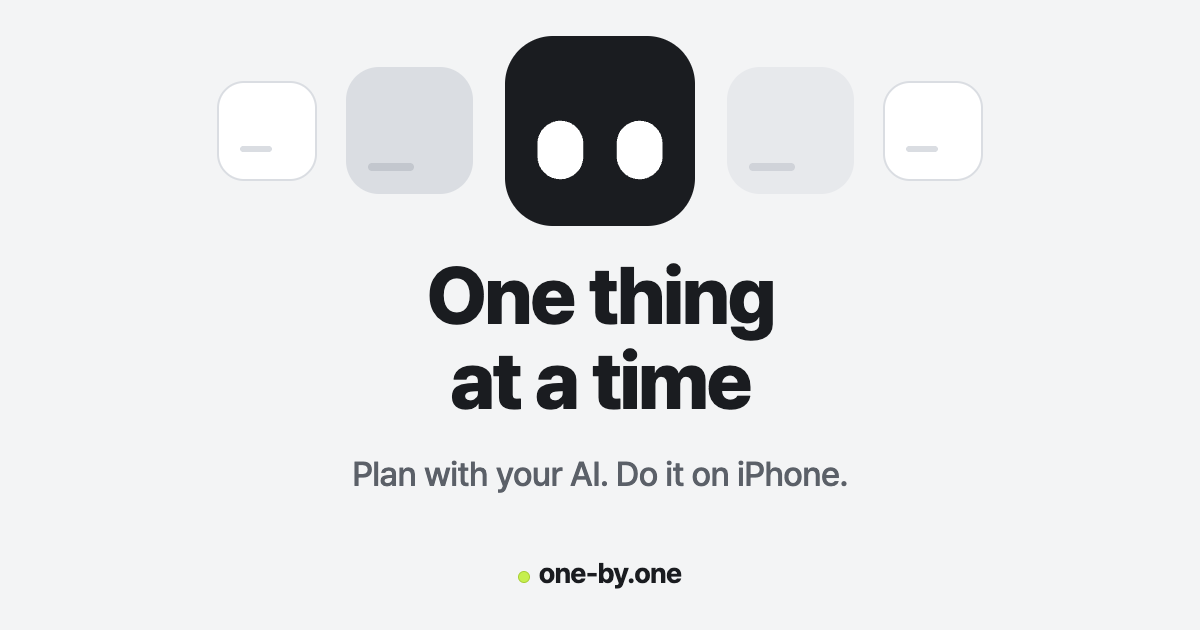
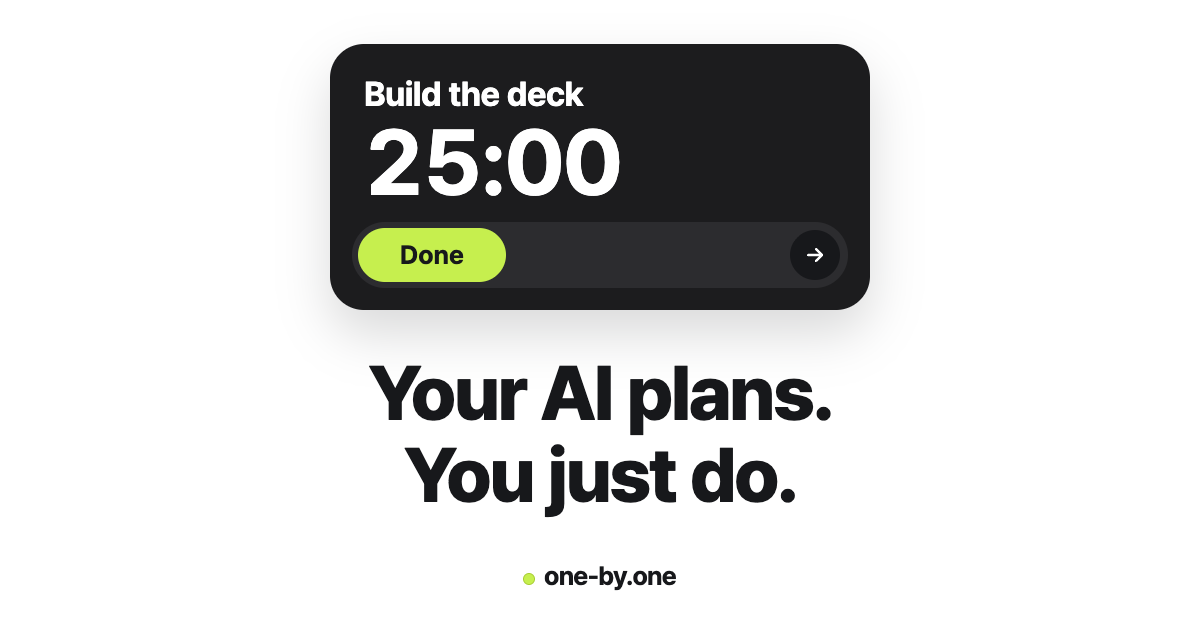
Share images match the v3 home: white ground, the Now card, the hero headline; versioned og:image URLs

diff --git a/assets/og-src/template.html b/assets/og-src/template.html
@@ -1,45 +1,38 @@
 <!doctype html>
 <!-- Source for assets/og.png (English) and assets/og-ko.png (Korean). 1200x630.
      Regenerate: node assets/og-src/render.mjs   (needs Google Chrome; Pretendard loads from jsDelivr).
-     Key content sits in the centre 630x630 square, so chat apps that crop to ~2:1 or a square keep it. -->
+     2026-11-26: matches the v3 home (white ground, the Now card from the hero phone, the hero headline). Key content stays in the middle so ~2:1 crops keep it. -->
 <html>
 <head>
 <meta charset="utf-8">
 <title>one-by.one share image</title>
 <link rel="stylesheet" href="https://cdn.jsdelivr.net/gh/orioncactus/pretendard@v1.3.9/dist/web/variable/pretendardvariable-dynamic-subset.min.css" crossorigin="anonymous">
 <style>
-  :root { --page:#F3F4F5; --ink:#1A1C20; --lime:#C6EF4E; --line:#DADDE2; --muted:#5B6068; }
+  :root { --page:#fff; --ink:#17181b; --card:#1c1c1e; --lime:#c6ef4e; --muted:#5b6068; --line:#e6e8ea; }
   * { box-sizing: border-box; margin: 0; }
   html, body { width: 1200px; height: 630px; overflow: hidden; background: var(--page); }
   body { position: relative; font-family: "Pretendard Variable", Pretendard, -apple-system, "Apple SD Gothic Neo", sans-serif; color: var(--ink); text-align: center; }
-  svg { position: absolute; inset: 0; }
-  .headline { position: absolute; left: 0; right: 0; top: 254px; font-size: 84px; line-height: 1.06; font-weight: 800; letter-spacing: -3px; word-break: keep-all; }
-  html[lang=en] .headline { font-size: 80px; letter-spacing: -3px; }
-  .sub { position: absolute; left: 0; right: 0; top: 454px; font-size: 34px; font-weight: 500; letter-spacing: -.6px; color: var(--muted); word-break: keep-all; }
-  .brand { position: absolute; left: 0; right: 0; top: 556px; font-size: 28px; font-weight: 700; letter-spacing: -.8px; color: var(--ink); }
+  .ticket { position: absolute; left: 330px; top: 44px; width: 540px; height: 266px; border-radius: 34px; background: var(--card); color: #fff; text-align: left; padding: 30px 34px; box-shadow: 0 24px 50px rgba(23,24,27,.16); }
+  .t-title { font-size: 34px; font-weight: 700; letter-spacing: -.6px; }
+  .t-clock { margin-top: 2px; font-size: 92px; font-weight: 700; line-height: 1; letter-spacing: -2px; font-variant-numeric: tabular-nums; }
+  .pill { position: absolute; left: 22px; right: 22px; bottom: 22px; height: 66px; border-radius: 33px; background: #2c2c2f; }
+  .pill b { position: absolute; left: 6px; top: 6px; bottom: 6px; width: 148px; border-radius: 27px; background: var(--lime); color: var(--ink); font-size: 26px; font-weight: 700; line-height: 54px; text-align: center; }
+  .pill i { position: absolute; right: 8px; top: 8px; width: 50px; height: 50px; border-radius: 50%; background: #17181b; }
+  .pill i svg { position: absolute; inset: 13px; }
+  .headline { position: absolute; left: 0; right: 0; top: 352px; font-size: 76px; line-height: 1.08; font-weight: 800; letter-spacing: -2.6px; word-break: keep-all; }
+  html[lang=ko] .headline { font-size: 64px; letter-spacing: -2px; line-height: 1.16; }
+  .brand { position: absolute; left: 0; right: 0; top: 560px; font-size: 26px; font-weight: 700; letter-spacing: -.8px; }
   .brand i { display: inline-block; width: 10px; height: 10px; border-radius: 50%; background: var(--lime); margin-right: 10px; vertical-align: 1px; box-shadow: 0 0 0 1px #A9CE36; }
   html[lang=ko] .en, html[lang=en] .ko { display: none; }
 </style>
 </head>
 <body>
-<svg width="1200" height="630" viewBox="0 0 1200 630" aria-hidden="true">
-  <!-- Cards, one by one: done cards fade out to the left, the current card is Pip (the app's face: dark, two white eyes set low), next cards wait on the right. -->
-  <g>
-    <rect x="218" y="82" width="98" height="98" rx="26" fill="#fff" stroke="#DADDE2" stroke-width="2"/>
-    <rect x="346" y="67" width="127" height="127" rx="33" fill="#DADDE2"/>
-    <rect x="505" y="36" width="190" height="190" rx="48" fill="#1A1C20"/>
-    <path fill="#fff" d="M537.44 143.66A22.96 22.96 0 0 1 583.36 143.66V156.34A22.96 22.96 0 0 1 537.44 156.34ZM616.64 143.66A22.96 22.96 0 0 1 662.56 143.66V156.34A22.96 22.96 0 0 1 616.64 156.34Z"/>
-    <rect x="727" y="67" width="127" height="127" rx="33" fill="#E7E9EC"/>
-    <rect x="884" y="82" width="98" height="98" rx="26" fill="#fff" stroke="#DADDE2" stroke-width="2"/>
-    <!-- quiet bars on the side cards -->
-    <rect x="368" y="163" width="46" height="8" rx="4" fill="#C3C7CE"/>
-    <rect x="749" y="163" width="46" height="8" rx="4" fill="#D0D3D9"/>
-    <rect x="240" y="146" width="32" height="6" rx="3" fill="#DADDE2"/>
-    <rect x="906" y="146" width="32" height="6" rx="3" fill="#DADDE2"/>
-  </g>
-</svg>
-<div class="headline"><span class="ko">할 일은<br>하나씩</span><span class="en">One thing<br>at a time</span></div>
-<div class="sub"><span class="ko">AI가 나눈 카드를 iPhone에서 한 장씩</span><span class="en">Plan with your AI. Do it on iPhone.</span></div>
+<div class="ticket" aria-hidden="true">
+  <p class="t-title"><span class="en">Build the deck</span><span class="ko">발표 자료 만들기</span></p>
+  <p class="t-clock">25:00</p>
+  <div class="pill"><b><span class="en">Done</span><span class="ko">완료</span></b><i><svg viewBox="0 0 24 24" fill="none" stroke="#fff" stroke-width="2.4" stroke-linecap="round" stroke-linejoin="round"><path d="M5 12h14M13 6l6 6-6 6"/></svg></i></div>
+</div>
+<div class="headline"><span class="en">Your AI plans.<br>You just do.</span><span class="ko">AI가 하루를 짜고,<br>폰은 지금 할 일 한 장만.</span></div>
 <div class="brand"><i></i>one-by.one</div>
 <script>
   const l = new URLSearchParams(location.search).get("lang") === "ko" ? "ko" : "en";

diff --git a/ko/index.html b/ko/index.html
@@ -20,16 +20,16 @@
     <meta property="og:title" content="AI 일정관리 앱, 할 일을 하나씩 | 원바이원">
     <meta property="og:description" content="챗GPT나 클로드가 하루 일정을 짜면, 아이폰에는 지금 할 일 카드 한 장만 보여요. 시간이 정해진 일은 그 시간에 알려 줘요. 투두리스트 대신, 하루를 아는 비서.">
     <meta property="og:url" content="https://one-by.one/ko/">
-    <meta property="og:image" content="https://one-by.one/assets/og-ko.png">
+    <meta property="og:image" content="https://one-by.one/assets/og-ko.png?v=ab555048d1">
     <meta property="og:image:type" content="image/png">
     <meta property="og:image:width" content="1200">
     <meta property="og:image:height" content="630">
-    <meta property="og:image:alt" content="one-by.one: 계획은 AI가, 실행은 당신이. 작은 카드가 나란히 놓이고 지금 할 카드가 가운데에 있어요.">
+    <meta property="og:image:alt" content="one-by.one: 지금 할 카드 '발표 자료 만들기 25:00'과 완료 버튼. AI가 하루를 짜고, 폰은 지금 할 일 한 장만.">
     <meta name="twitter:card" content="summary_large_image">
     <meta name="twitter:title" content="AI 일정관리 앱, 할 일을 하나씩 | 원바이원">
     <meta name="twitter:description" content="챗GPT나 클로드가 하루 일정을 짜면, 아이폰에는 지금 할 일 카드 한 장만 보여요. 시간이 정해진 일은 그 시간에 알려 줘요. 투두리스트 대신, 하루를 아는 비서.">
-    <meta name="twitter:image" content="https://one-by.one/assets/og-ko.png">
-    <meta name="twitter:image:alt" content="one-by.one: 계획은 AI가, 실행은 당신이. 작은 카드가 나란히 놓이고 지금 할 카드가 가운데에 있어요.">
+    <meta name="twitter:image" content="https://one-by.one/assets/og-ko.png?v=ab555048d1">
+    <meta name="twitter:image:alt" content="one-by.one: 지금 할 카드 '발표 자료 만들기 25:00'과 완료 버튼. AI가 하루를 짜고, 폰은 지금 할 일 한 장만.">
     <script type="application/ld+json">{
       "@context": "https://schema.org",
       "@graph": [

diff --git a/ko/connect/index.html b/ko/connect/index.html
@@ -19,16 +19,16 @@
     <meta property="og:title" content="AI 연결하기 · one-by.one">
     <meta property="og:description" content="ChatGPT, Claude, Codex, Cursor 등 MCP 에이전트를 연결해요. 프롬프트를 붙여 넣고 로그인한 뒤, 허용할 권한을 승인하세요.">
     <meta property="og:url" content="https://one-by.one/ko/connect/">
-    <meta property="og:image" content="https://one-by.one/assets/og-ko.png">
+    <meta property="og:image" content="https://one-by.one/assets/og-ko.png?v=ab555048d1">
     <meta property="og:image:type" content="image/png">
     <meta property="og:image:width" content="1200">
     <meta property="og:image:height" content="630">
-    <meta property="og:image:alt" content="one-by.one: 계획은 AI가, 실행은 당신이. 작은 카드가 나란히 놓이고 지금 할 카드가 가운데에 있어요.">
+    <meta property="og:image:alt" content="one-by.one: 지금 할 카드 '발표 자료 만들기 25:00'과 완료 버튼. AI가 하루를 짜고, 폰은 지금 할 일 한 장만.">
     <meta name="twitter:card" content="summary_large_image">
     <meta name="twitter:title" content="AI 연결하기 · one-by.one">
     <meta name="twitter:description" content="ChatGPT, Claude, Codex, Cursor 등 MCP 에이전트를 연결해요. 프롬프트를 붙여 넣고 로그인한 뒤, 허용할 권한을 승인하세요.">
-    <meta name="twitter:image" content="https://one-by.one/assets/og-ko.png">
-    <meta name="twitter:image:alt" content="one-by.one: 계획은 AI가, 실행은 당신이. 작은 카드가 나란히 놓이고 지금 할 카드가 가운데에 있어요.">
+    <meta name="twitter:image" content="https://one-by.one/assets/og-ko.png?v=ab555048d1">
+    <meta name="twitter:image:alt" content="one-by.one: 지금 할 카드 '발표 자료 만들기 25:00'과 완료 버튼. AI가 하루를 짜고, 폰은 지금 할 일 한 장만.">
     <script src="/assets/doc.js?v=14e15323cf" defer></script>
     <script src="/assets/language.js?v=a2e50e227b"></script>
     <script src="/assets/analytics.js?v=d5961adfd4" defer></script>

diff --git a/ko/blog/index.html b/ko/blog/index.html
@@ -21,16 +21,16 @@
     <meta property="og:title" content="블로그 · one-by.one">
     <meta property="og:description" content="AI와 하루를 계획하고 카드 한 장씩 실행하는 법. 클로드 MCP 연결과 커넥터 추가를 쉬운 말로 정리한 한국어 가이드예요.">
     <meta property="og:url" content="https://one-by.one/ko/blog/">
-    <meta property="og:image" content="https://one-by.one/assets/og-ko.png">
+    <meta property="og:image" content="https://one-by.one/assets/og-ko.png?v=ab555048d1">
     <meta property="og:image:type" content="image/png">
     <meta property="og:image:width" content="1200">
     <meta property="og:image:height" content="630">
-    <meta property="og:image:alt" content="one-by.one: 계획은 AI가, 실행은 당신이. 작은 카드가 나란히 놓이고 지금 할 카드가 가운데에 있어요.">
+    <meta property="og:image:alt" content="one-by.one: 지금 할 카드 '발표 자료 만들기 25:00'과 완료 버튼. AI가 하루를 짜고, 폰은 지금 할 일 한 장만.">
     <meta name="twitter:card" content="summary_large_image">
     <meta name="twitter:title" content="블로그 · one-by.one">
     <meta name="twitter:description" content="AI와 하루를 계획하고 카드 한 장씩 실행하는 법. 클로드 MCP 연결과 커넥터 추가를 쉬운 말로 정리한 한국어 가이드예요.">
-    <meta name="twitter:image" content="https://one-by.one/assets/og-ko.png">
-    <meta name="twitter:image:alt" content="one-by.one: 계획은 AI가, 실행은 당신이. 작은 카드가 나란히 놓이고 지금 할 카드가 가운데에 있어요.">
+    <meta name="twitter:image" content="https://one-by.one/assets/og-ko.png?v=ab555048d1">
+    <meta name="twitter:image:alt" content="one-by.one: 지금 할 카드 '발표 자료 만들기 25:00'과 완료 버튼. AI가 하루를 짜고, 폰은 지금 할 일 한 장만.">
     <script type="application/ld+json">
 {
   "@context": "https://schema.org",

diff --git a/connect/index.html b/connect/index.html
@@ -17,16 +17,16 @@
     <meta property="og:title" content="Connect your AI · one-by.one">
     <meta property="og:description" content="Use ChatGPT, Claude, Codex, Cursor or any MCP agent with one-by.one. Paste one prompt, sign in, and approve what it can do.">
     <meta property="og:url" content="https://one-by.one/connect/">
-    <meta property="og:image" content="https://one-by.one/assets/og.png">
+    <meta property="og:image" content="https://one-by.one/assets/og.png?v=62cf03ff7d">
     <meta property="og:image:type" content="image/png">
     <meta property="og:image:width" content="1200">
     <meta property="og:image:height" content="630">
-    <meta property="og:image:alt" content="one-by.one: one thing at a time. A row of small cards with the current one in front.">
+    <meta property="og:image:alt" content="one-by.one: the card to do now, Build the deck, 25:00, with a Done button. Your AI plans. You just do.">
     <meta name="twitter:card" content="summary_large_image">
     <meta name="twitter:title" content="Connect your AI · one-by.one">
     <meta name="twitter:description" content="Use ChatGPT, Claude, Codex, Cursor or any MCP agent with one-by.one. Paste one prompt, sign in, and approve what it can do.">
-    <meta name="twitter:image" content="https://one-by.one/assets/og.png">
-    <meta name="twitter:image:alt" content="one-by.one: one thing at a time. A row of small cards with the current one in front.">
+    <meta name="twitter:image" content="https://one-by.one/assets/og.png?v=62cf03ff7d">
+    <meta name="twitter:image:alt" content="one-by.one: the card to do now, Build the deck, 25:00, with a Done button. Your AI plans. You just do.">
     <script src="/assets/doc.js?v=14e15323cf" defer></script>
     <script src="/assets/language.js?v=a2e50e227b"></script>
     <script src="/assets/analytics.js?v=d5961adfd4" defer></script>

diff --git a/index.html b/index.html
@@ -20,16 +20,16 @@
     <meta property="og:title" content="AI Daily Planner App for iPhone | one-by.one">
     <meta property="og:description" content="AI daily planner for iPhone. ChatGPT or Claude plans your day, and your phone shows the one card to do now, with a timer when it has a length and an alert when it has a time.">
     <meta property="og:url" content="https://one-by.one/">
-    <meta property="og:image" content="https://one-by.one/assets/og.png">
+    <meta property="og:image" content="https://one-by.one/assets/og.png?v=62cf03ff7d">
     <meta property="og:image:type" content="image/png">
     <meta property="og:image:width" content="1200">
     <meta property="og:image:height" content="630">
-    <meta property="og:image:alt" content="one-by.one: a row of small cards with the one to do now in front.">
+    <meta property="og:image:alt" content="one-by.one: the card to do now, Build the deck, 25:00, with a Done button. Your AI plans. You just do.">
     <meta name="twitter:card" content="summary_large_image">
     <meta name="twitter:title" content="AI Daily Planner App for iPhone | one-by.one">
     <meta name="twitter:description" content="AI daily planner for iPhone. ChatGPT or Claude plans your day, and your phone shows the one card to do now, with a timer when it has a length and an alert when it has a time.">
-    <meta name="twitter:image" content="https://one-by.one/assets/og.png">
-    <meta name="twitter:image:alt" content="one-by.one: a row of small cards with the one to do now in front.">
+    <meta name="twitter:image" content="https://one-by.one/assets/og.png?v=62cf03ff7d">
+    <meta name="twitter:image:alt" content="one-by.one: the card to do now, Build the deck, 25:00, with a Done button. Your AI plans. You just do.">
     <script type="application/ld+json">{
       "@context": "https://schema.org",
       "@graph": [

diff --git a/support/index.html b/support/index.html
@@ -18,16 +18,16 @@
     <meta property="og:title" content="Support &amp; AI Help | one-by.one">
     <meta property="og:description" content="Get help with one-by.one sign-in, ChatGPT and Claude MCP connections, subscriptions, calendar sharing and deletion.">
     <meta property="og:url" content="https://one-by.one/support/">
-    <meta property="og:image" content="https://one-by.one/assets/og.png">
+    <meta property="og:image" content="https://one-by.one/assets/og.png?v=62cf03ff7d">
     <meta property="og:image:type" content="image/png">
     <meta property="og:image:width" content="1200">
     <meta property="og:image:height" content="630">
-    <meta property="og:image:alt" content="one-by.one: one thing at a time. A row of small cards with the current one in front.">
+    <meta property="og:image:alt" content="one-by.one: the card to do now, Build the deck, 25:00, with a Done button. Your AI plans. You just do.">
     <meta name="twitter:card" content="summary_large_image">
     <meta name="twitter:title" content="Support &amp; AI Help | one-by.one">
     <meta name="twitter:description" content="Get help with one-by.one sign-in, ChatGPT and Claude MCP connections, subscriptions, calendar sharing and deletion.">
-    <meta name="twitter:image" content="https://one-by.one/assets/og.png">
-    <meta name="twitter:image:alt" content="one-by.one: one thing at a time. A row of small cards with the current one in front.">
+    <meta name="twitter:image" content="https://one-by.one/assets/og.png?v=62cf03ff7d">
+    <meta name="twitter:image:alt" content="one-by.one: the card to do now, Build the deck, 25:00, with a Done button. Your AI plans. You just do.">
     <script src="/assets/language.js?v=a2e50e227b"></script>
     <script src="/assets/analytics.js?v=d5961adfd4" defer></script>
   </head>

diff --git a/manifesto/index.html b/manifesto/index.html
@@ -18,16 +18,16 @@
     <meta property="og:title" content="Manifesto · one-by.one">
     <meta property="og:description" content="Here’s to the overwhelmed: the overthinkers, the overplanners, the tab hoarders. For the ones still asking what to do now.">
     <meta property="og:url" content="https://one-by.one/manifesto/">
-    <meta property="og:image" content="https://one-by.one/assets/og.png">
+    <meta property="og:image" content="https://one-by.one/assets/og.png?v=62cf03ff7d">
     <meta property="og:image:type" content="image/png">
     <meta property="og:image:width" content="1200">
     <meta property="og:image:height" content="630">
-    <meta property="og:image:alt" content="one-by.one: one thing at a time. A row of small cards with the current one in front.">
+    <meta property="og:image:alt" content="one-by.one: the card to do now, Build the deck, 25:00, with a Done button. Your AI plans. You just do.">
     <meta name="twitter:card" content="summary_large_image">
     <meta name="twitter:title" content="Manifesto · one-by.one">
     <meta name="twitter:description" content="Here’s to the overwhelmed: the overthinkers, the overplanners, the tab hoarders. For the ones still asking what to do now.">
-    <meta name="twitter:image" content="https://one-by.one/assets/og.png">
-    <meta name="twitter:image:alt" content="one-by.one: one thing at a time. A row of small cards with the current one in front.">
+    <meta name="twitter:image" content="https://one-by.one/assets/og.png?v=62cf03ff7d">
+    <meta name="twitter:image:alt" content="one-by.one: the card to do now, Build the deck, 25:00, with a Done button. Your AI plans. You just do.">
     <script src="/assets/language.js?v=a2e50e227b"></script>
     <script src="/assets/analytics.js?v=d5961adfd4" defer></script>
   </head>

diff --git a/terms/index.html b/terms/index.html
@@ -18,16 +18,16 @@
     <meta property="og:title" content="Terms of Use | one-by.one">
     <meta property="og:description" content="one-by.one terms for accounts, AI connections, subscriptions, trial eligibility, cancellation and use of the service.">
     <meta property="og:url" content="https://one-by.one/terms/">
-    <meta property="og:image" content="https://one-by.one/assets/og.png">
+    <meta property="og:image" content="https://one-by.one/assets/og.png?v=62cf03ff7d">
     <meta property="og:image:type" content="image/png">
     <meta property="og:image:width" content="1200">
     <meta property="og:image:height" content="630">
-    <meta property="og:image:alt" content="one-by.one: one thing at a time. A row of small cards with the current one in front.">
+    <meta property="og:image:alt" content="one-by.one: the card to do now, Build the deck, 25:00, with a Done button. Your AI plans. You just do.">
     <meta name="twitter:card" content="summary_large_image">
     <meta name="twitter:title" content="Terms of Use | one-by.one">
     <meta name="twitter:description" content="one-by.one terms for accounts, AI connections, subscriptions, trial eligibility, cancellation and use of the service.">
-    <meta name="twitter:image" content="https://one-by.one/assets/og.png">
-    <meta name="twitter:image:alt" content="one-by.one: one thing at a time. A row of small cards with the current one in front.">
+    <meta name="twitter:image" content="https://one-by.one/assets/og.png?v=62cf03ff7d">
+    <meta name="twitter:image:alt" content="one-by.one: the card to do now, Build the deck, 25:00, with a Done button. Your AI plans. You just do.">
     <script src="/assets/language.js?v=a2e50e227b"></script>
     <script src="/assets/analytics.js?v=d5961adfd4" defer></script>
   </head>

diff --git a/privacy/index.html b/privacy/index.html
@@ -18,16 +18,16 @@
     <meta property="og:title" content="Privacy Policy | one-by.one">
     <meta property="og:description" content="How one-by.one handles account data, plans, results, optional calendar sharing, connected AI access and deletion.">
     <meta property="og:url" content="https://one-by.one/privacy/">
-    <meta property="og:image" content="https://one-by.one/assets/og.png">
+    <meta property="og:image" content="https://one-by.one/assets/og.png?v=62cf03ff7d">
     <meta property="og:image:type" content="image/png">
     <meta property="og:image:width" content="1200">
     <meta property="og:image:height" content="630">
-    <meta property="og:image:alt" content="one-by.one: one thing at a time. A row of small cards with the current one in front.">
+    <meta property="og:image:alt" content="one-by.one: the card to do now, Build the deck, 25:00, with a Done button. Your AI plans. You just do.">
     <meta name="twitter:card" content="summary_large_image">
     <meta name="twitter:title" content="Privacy Policy | one-by.one">
     <meta name="twitter:description" content="How one-by.one handles account data, plans, results, optional calendar sharing, connected AI access and deletion.">
-    <meta name="twitter:image" content="https://one-by.one/assets/og.png">
-    <meta name="twitter:image:alt" content="one-by.one: one thing at a time. A row of small cards with the current one in front.">
+    <meta name="twitter:image" content="https://one-by.one/assets/og.png?v=62cf03ff7d">
+    <meta name="twitter:image:alt" content="one-by.one: the card to do now, Build the deck, 25:00, with a Done button. Your AI plans. You just do.">
     <script src="/assets/language.js?v=a2e50e227b"></script>
     <script src="/assets/analytics.js?v=d5961adfd4" defer></script>
   </head>

diff --git a/404.html b/404.html
@@ -19,16 +19,16 @@
     <meta property="og:title" content="Page Not Found | one-by.one">
     <meta property="og:description" content="This one-by.one page could not be found. Visit the homepage or contact support@one-by.one for help.">
     <meta property="og:url" content="https://one-by.one/404.html">
-    <meta property="og:image" content="https://one-by.one/assets/og.png">
+    <meta property="og:image" content="https://one-by.one/assets/og.png?v=62cf03ff7d">
     <meta property="og:image:type" content="image/png">
     <meta property="og:image:width" content="1200">
     <meta property="og:image:height" content="630">
-    <meta property="og:image:alt" content="one-by.one: one thing at a time. A row of small cards with the current one in front.">
+    <meta property="og:image:alt" content="one-by.one: the card to do now, Build the deck, 25:00, with a Done button. Your AI plans. You just do.">
     <meta name="twitter:card" content="summary_large_image">
     <meta name="twitter:title" content="Page Not Found | one-by.one">
     <meta name="twitter:description" content="This one-by.one page could not be found. Visit the homepage or contact support@one-by.one for help.">
-    <meta name="twitter:image" content="https://one-by.one/assets/og.png">
-    <meta name="twitter:image:alt" content="one-by.one: one thing at a time. A row of small cards with the current one in front.">
+    <meta name="twitter:image" content="https://one-by.one/assets/og.png?v=62cf03ff7d">
+    <meta name="twitter:image:alt" content="one-by.one: the card to do now, Build the deck, 25:00, with a Done button. Your AI plans. You just do.">
     <script src="/assets/language.js?v=a2e50e227b"></script>
     <script src="/assets/analytics.js?v=d5961adfd4" defer></script>
   </head>

diff --git a/blog/index.html b/blog/index.html
@@ -19,16 +19,16 @@
     <meta property="og:title" content="Blog · one-by.one">
     <meta property="og:description" content="Plain guides to planning your day with Claude, ChatGPT and other AI assistants, and to running that plan one card at a time on iPhone.">
     <meta property="og:url" content="https://one-by.one/blog/">
-    <meta property="og:image" content="https://one-by.one/assets/og.png">
+    <meta property="og:image" content="https://one-by.one/assets/og.png?v=62cf03ff7d">
     <meta property="og:image:type" content="image/png">
     <meta property="og:image:width" content="1200">
     <meta property="og:image:height" content="630">
-    <meta property="og:image:alt" content="one-by.one: one thing at a time. A row of small cards with the current one in front.">
+    <meta property="og:image:alt" content="one-by.one: the card to do now, Build the deck, 25:00, with a Done button. Your AI plans. You just do.">
     <meta name="twitter:card" content="summary_large_image">
     <meta name="twitter:title" content="Blog · one-by.one">
     <meta name="twitter:description" content="Plain guides to planning your day with Claude, ChatGPT and other AI assistants, and to running that plan one card at a time on iPhone.">
-    <meta name="twitter:image" content="https://one-by.one/assets/og.png">
-    <meta name="twitter:image:alt" content="one-by.one: one thing at a time. A row of small cards with the current one in front.">
+    <meta name="twitter:image" content="https://one-by.one/assets/og.png?v=62cf03ff7d">
+    <meta name="twitter:image:alt" content="one-by.one: the card to do now, Build the deck, 25:00, with a Done button. Your AI plans. You just do.">
     <script type="application/ld+json">
 {
   "@context": "https://schema.org",
